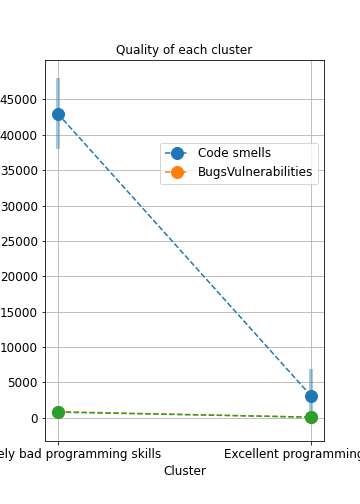
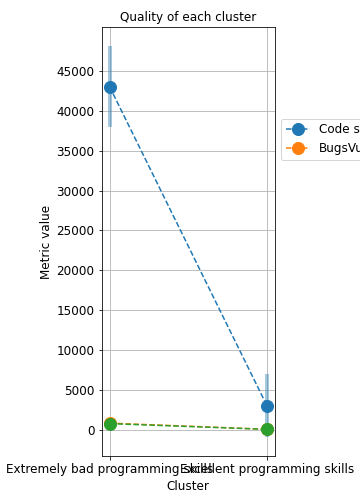
Graphics 4

diff --git a/src/models/fun_validation.py b/src/models/fun_validation.py
@@ -63,6 +63,8 @@ def plot_quality_metrics(df, metrics, yticks):
     plt.ylabel('Metric value', fontsize = FONTSIZE)
     plt.xticks(ticks=range(len(df)), labels=df["clusters"], fontsize = FONTSIZE)
     plt.yticks(ticks = yticks, fontsize=FONTSIZE)
+    plt.tight_layout()
+    
     if metrics[0] == "blocker_violations":
         legend_metrics = ["Blocker violations", "Critical violations", "Major violations", "Minor violations"]
     elif metrics[0] == "blocker":
